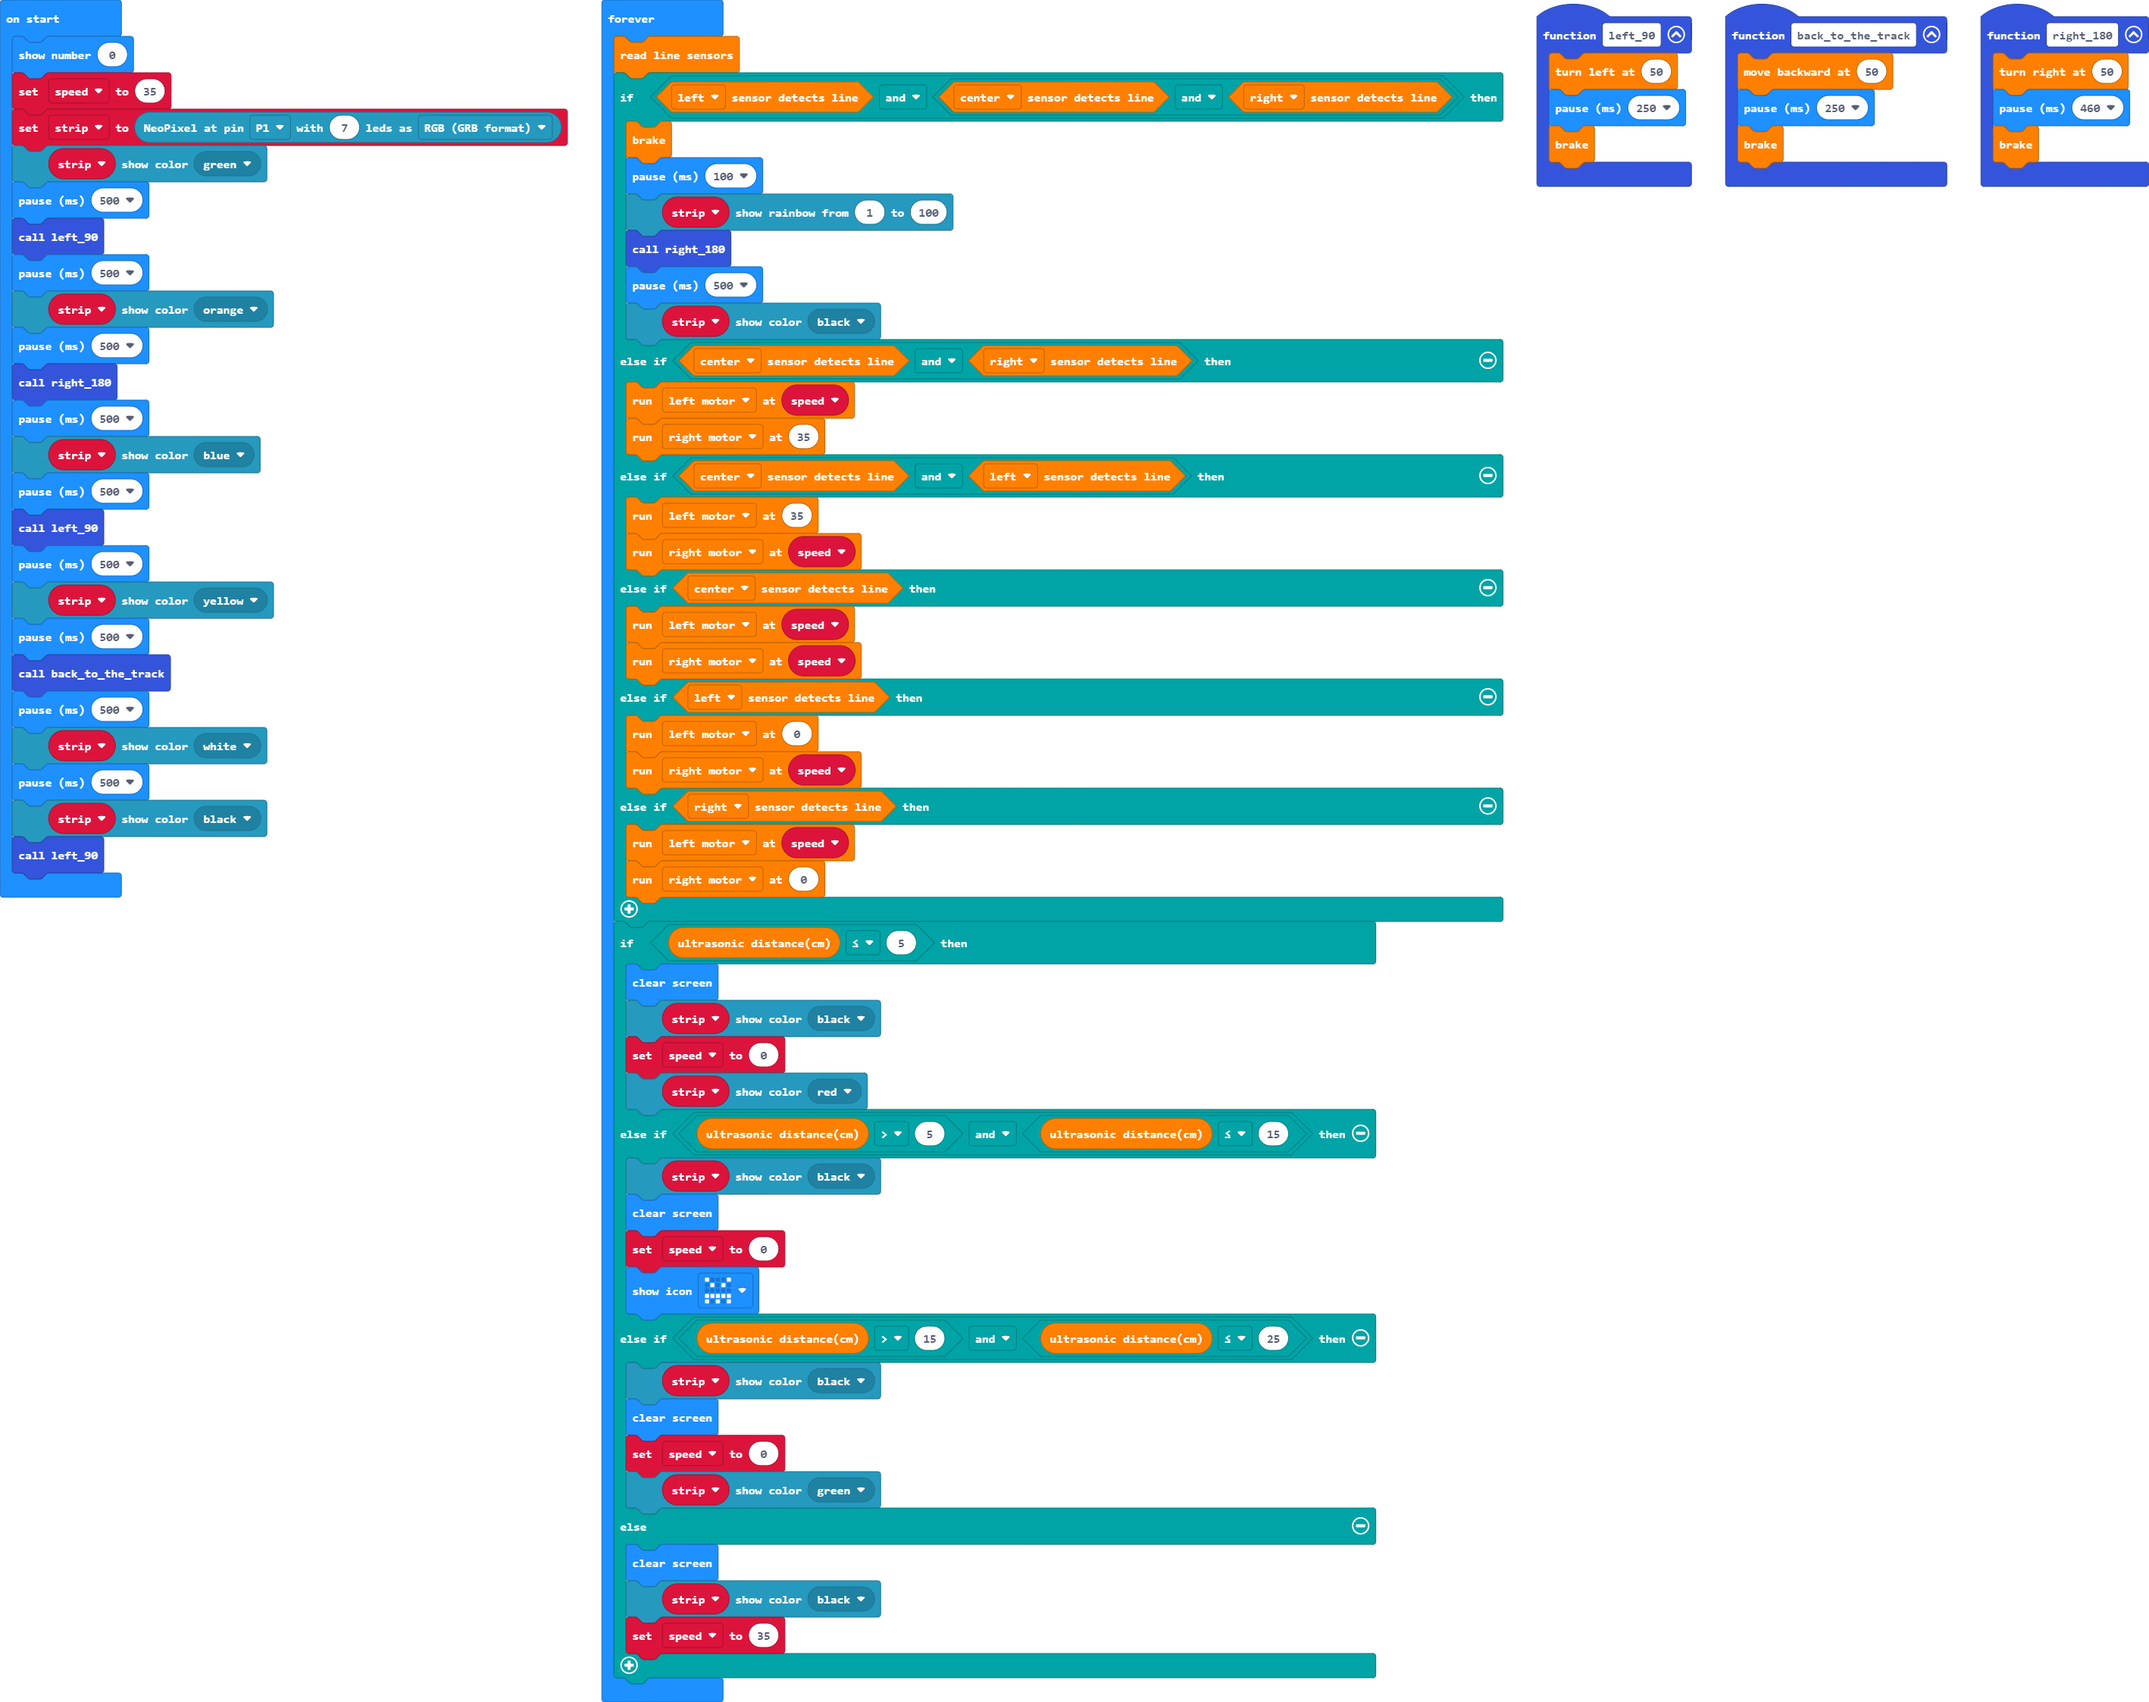
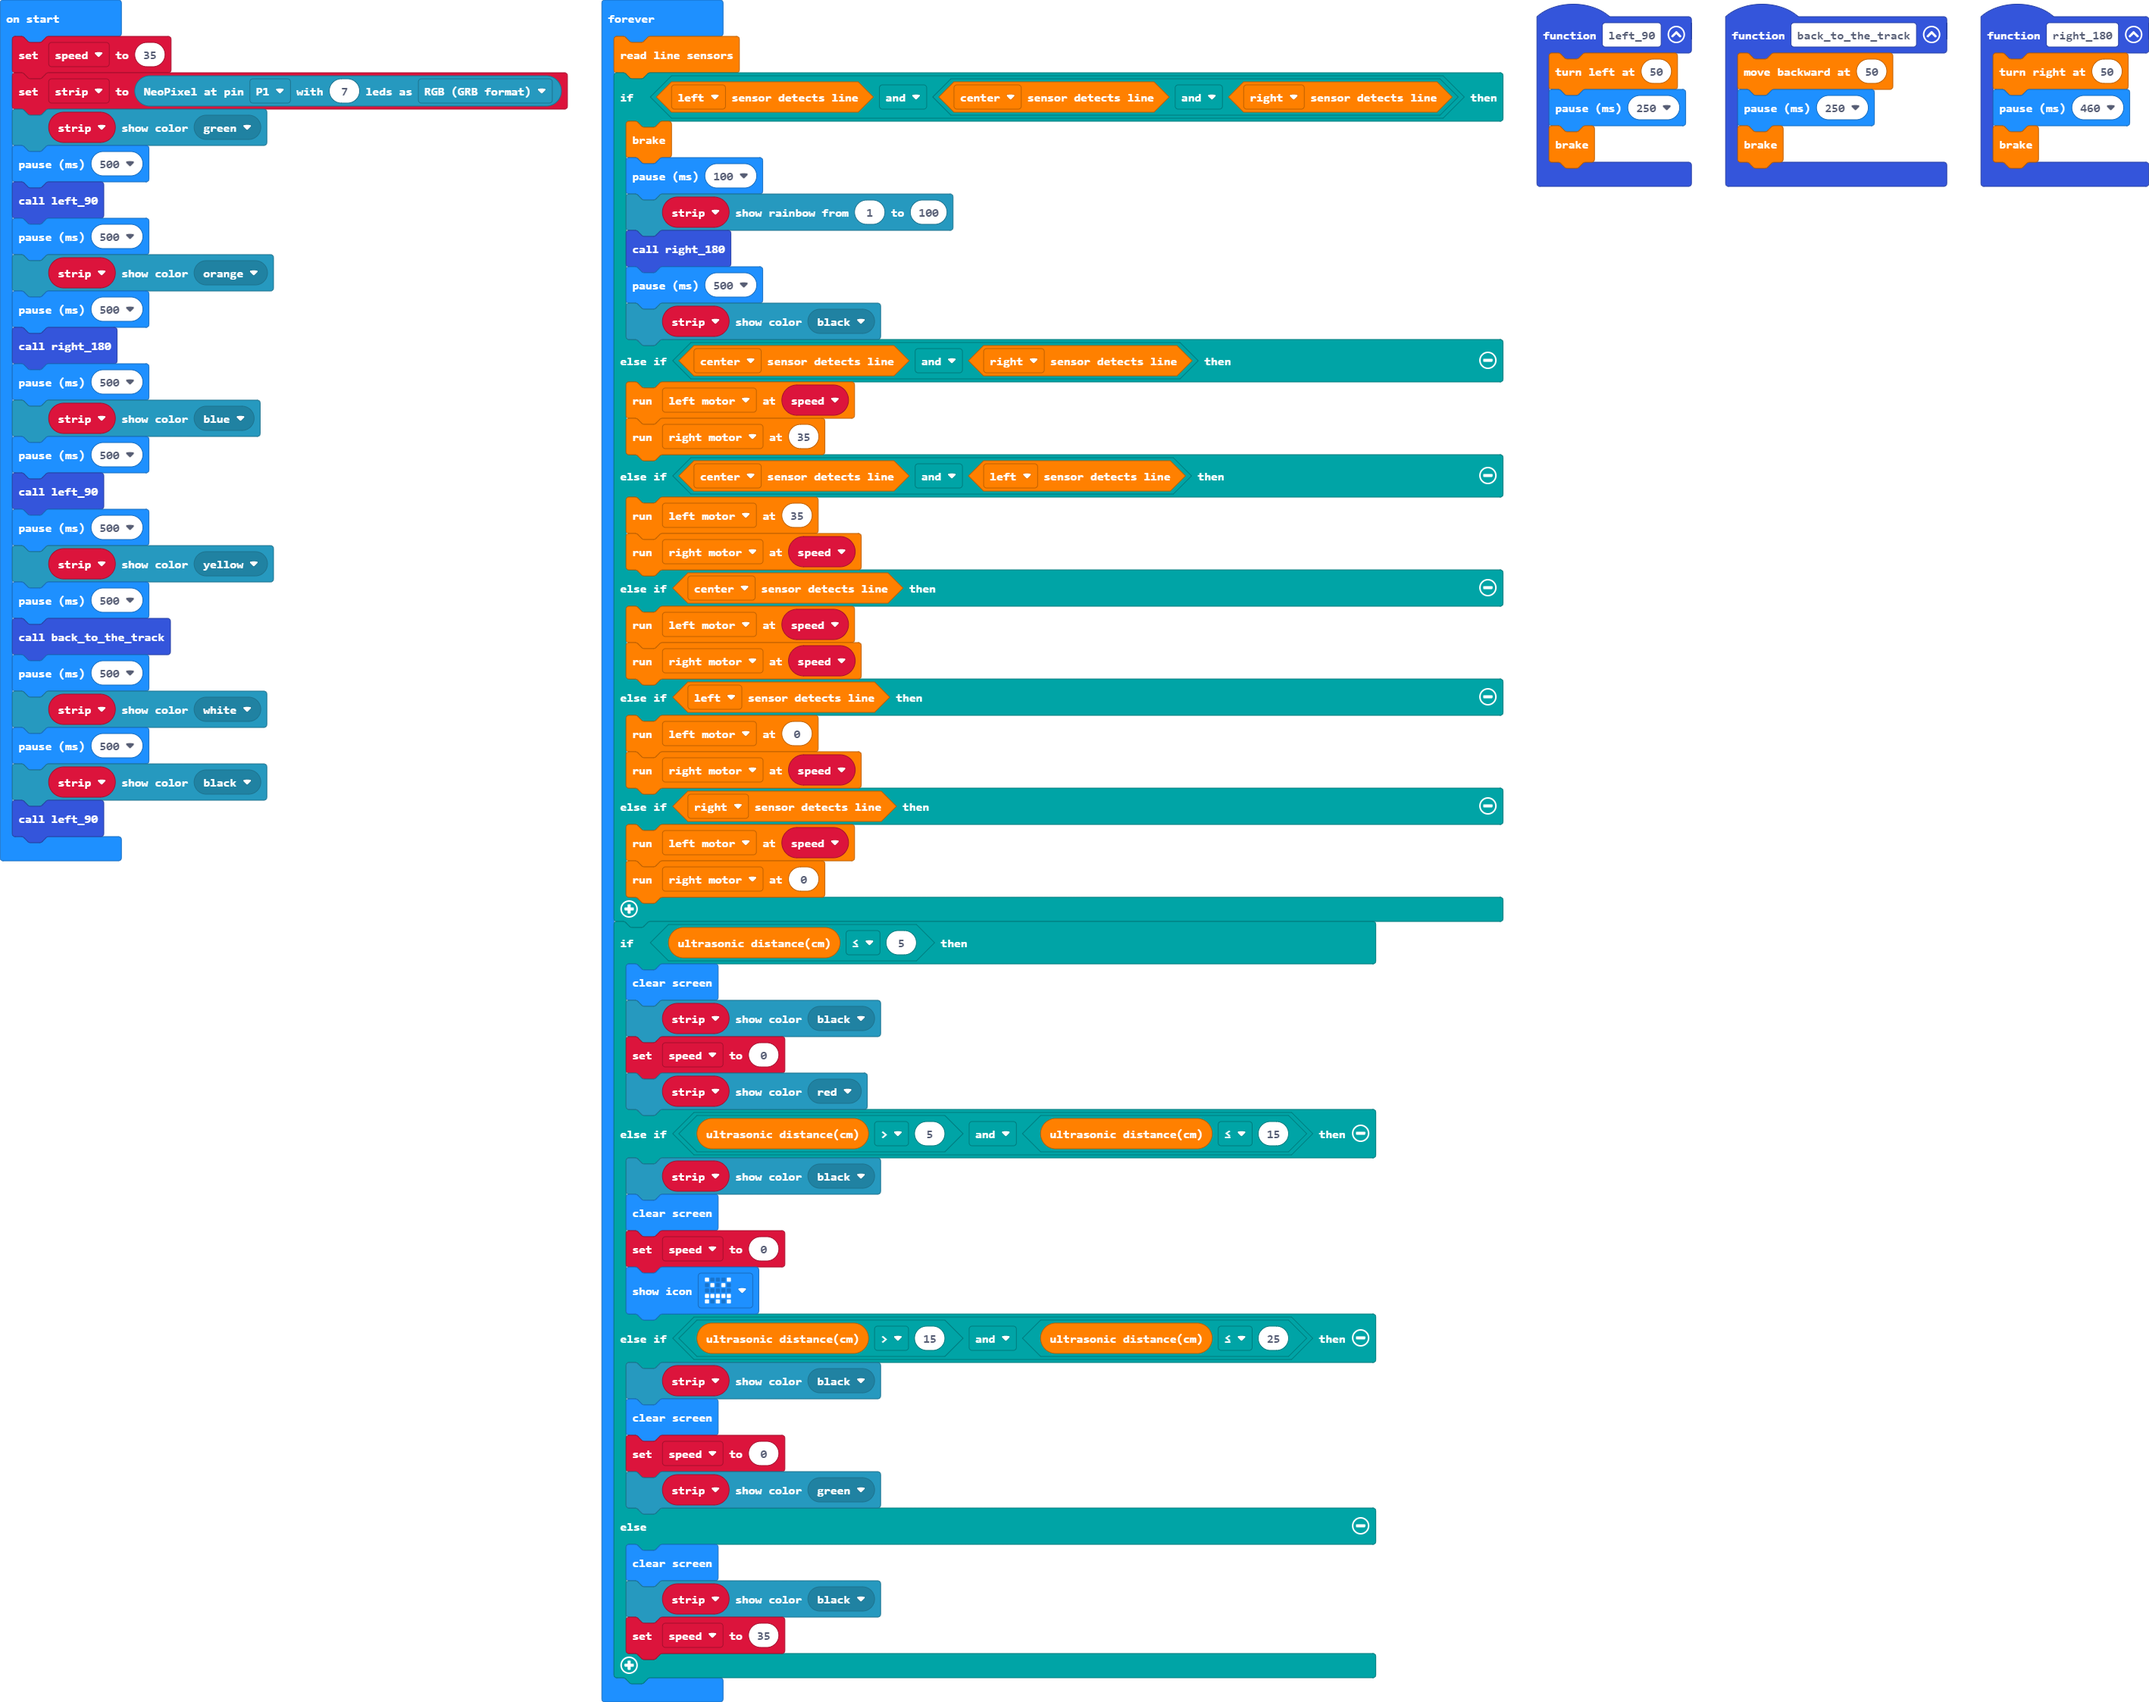
Update main.blocks, main.ts

Changed region(s): [[0.0, 0.0, 0.2793, 0.5298]]

diff --git a/main.ts b/main.ts
@@ -13,7 +13,6 @@ function left_90 () {
     basic.pause(250)
     reromicro.Brake()
 }
-basic.showNumber(0)
 let speed = 35
 let strip = neopixel.create(DigitalPin.P1, 7, NeoPixelMode.RGB)
 strip.showColor(neopixel.colors(NeoPixelColors.Green))
